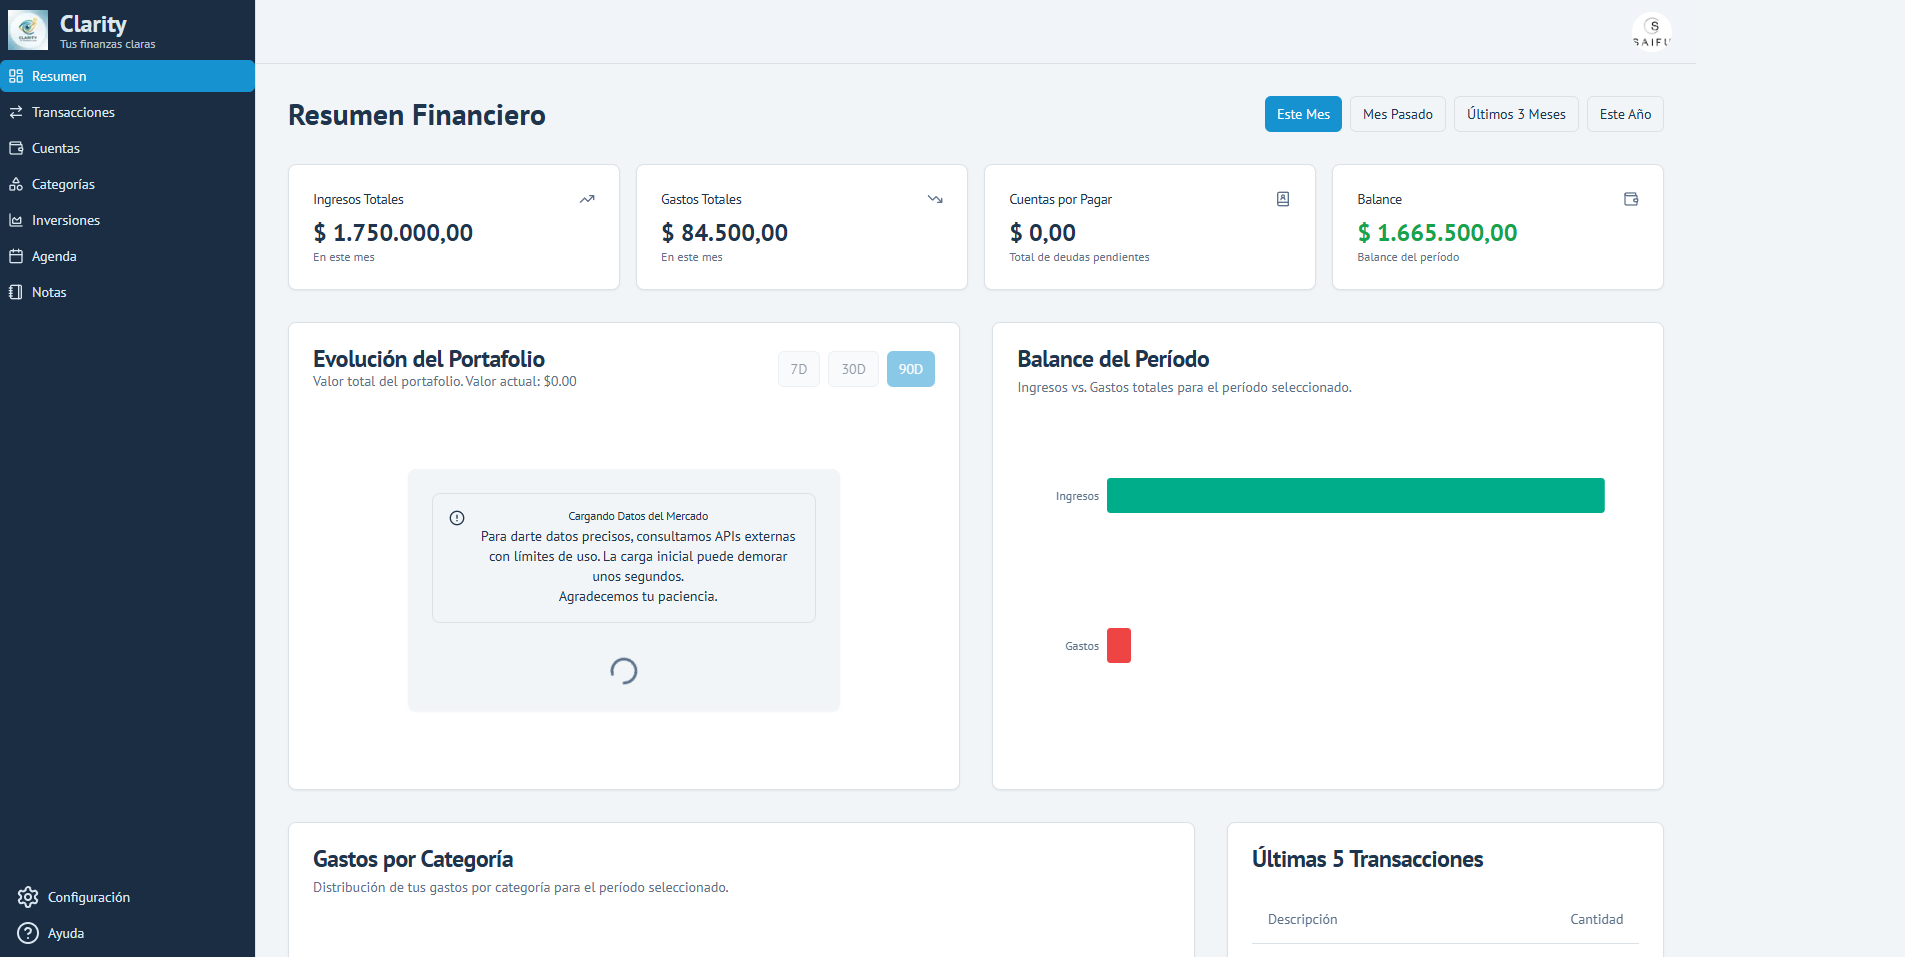
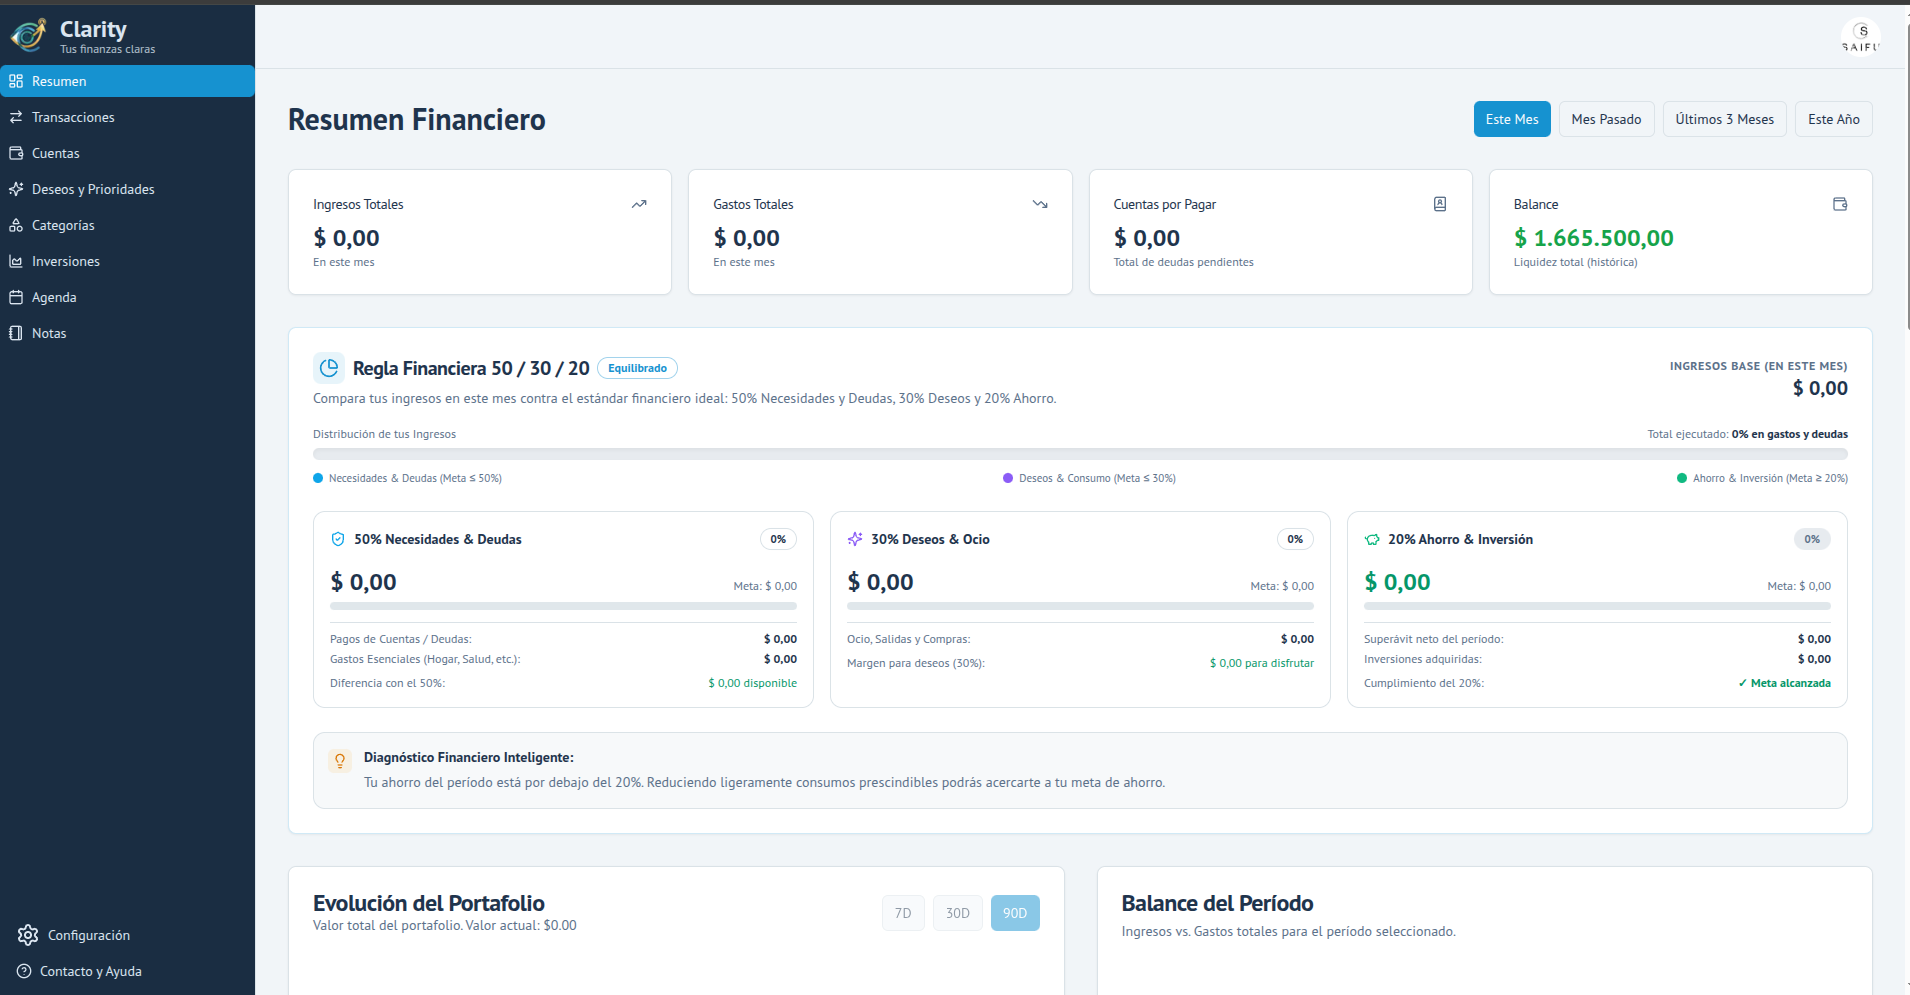
Actualizacion de info de clarity y mejoras

diff --git a/src/lib/data.ts b/src/lib/data.ts
@@ -16,15 +16,49 @@ import {
     Sparkles 
 } from "lucide-react";
 
-export const skills = [
-  { name: "React.js", icon: Layers },
-  { name: "Node.js", icon: Code },
-  { name: "JavaScript", icon: Code },
-  { name: "Express.js", icon: Code },
-  { name: "React Native", icon: Smartphone },
-  { name: "SQL/NoSQL", icon: Database },
-  { name: "Tailwind CSS", icon: PenTool },
+export const skillCategories = [
+  {
+    category: "Desarrollo Web & Tecnologías",
+    description: "Herramientas y lenguajes para construir aplicaciones modernas, SaaS y plataformas escalables.",
+    accentColor: "primary",
+    icon: Code,
+    skills: [
+      { name: "Next.js (App Router)", icon: Layers },
+      { name: "React.js", icon: Layers },
+      { name: "TypeScript", icon: Code },
+      { name: "JavaScript (ES6+)", icon: Code },
+      { name: "Firebase (Firestore & Auth)", icon: Database },
+      { name: "Node.js & Express", icon: Code },
+      { name: "Tailwind CSS", icon: PenTool },
+      { name: "Genkit AI / LLMs", icon: Sparkles },
+      { name: "SQL & NoSQL", icon: Database },
+      { name: "Git & GitHub", icon: Code },
+      { name: "APIs & Mercado Pago", icon: Globe },
+      { name: "PWA (Web Apps Instalables)", icon: Smartphone },
+    ]
+  },
+  {
+    category: "Gestión Administrativa, E-commerce & Soporte",
+    description: "Competencias operativas, comerciales y de atención remota para el día a día del negocio.",
+    accentColor: "accent",
+    icon: ClipboardList,
+    skills: [
+      { name: "Data Entry & Carga de Productos", icon: FileSpreadsheet },
+      { name: "Atención al Cliente (WhatsApp / Redes)", icon: MessageSquare },
+      { name: "Control de Inventario & Stock", icon: ClipboardList },
+      { name: "Arqueo de Caja Chica & Cierres de Turno", icon: Calculator },
+      { name: "Excel & Google Sheets Avanzado", icon: FileSpreadsheet },
+      { name: "Planillas Contables (Libro IVA / AFIP)", icon: Calculator },
+      { name: "Operación de Tiendas Online & E-commerce", icon: ShoppingCart },
+      { name: "Conciliación de Pagos & Transferencias", icon: Calculator },
+      { name: "Gestión de Cuentas Corrientes y Fiados", icon: ClipboardList },
+      { name: "Redacción Comercial & Contenido (TikTok / IG)", icon: Sparkles },
+    ]
+  }
 ];
+
+export const skills = skillCategories[0].skills;
+
 
 export const experience = [
     {
@@ -112,16 +146,6 @@ export const imageUrls = {
 
 export const featuredProjects = [
     {
-        id: "clarity",
-        title: "Clarity - Finanzas Personales",
-        description: "Aplicación integral de finanzas para un seguimiento claro de tus activos, transacciones y deudas, con sugerencias de IA.",
-        tech: ["Next.js", "Firebase", "Genkit AI", "Tailwind CSS"],
-        github: "https://github.com/edumoyano86/Clarity",
-        live: "https://clarity86.netlify.app/",
-        isPrivate: false,
-        imageUrls: [imageUrls.clarity1, imageUrls.clarity2]
-    },
-    {
         id: "kontalo",
         title: "Kontaló - Gestión Comercial & POS Cloud",
         description: "SaaS integral en la nube y PWA para comercios minoristas. Incluye Punto de Venta ágil (hotkeys y código de barras), arqueo de turnos de caja chica, ajustes masivos de precios/stock con redondeo inteligente, reportes de rotación con IA para capital inmovilizado, exportador contable en 1 clic (AFIP / Libro IVA) y catálogo online con pedidos por WhatsApp y Mercado Pago.",
@@ -131,6 +155,17 @@ export const featuredProjects = [
         isPrivate: true,
         repoNotice: "Repositorio privado comercial. Acceso temporal a código disponible para reclutadores bajo solicitud.",
         imageUrls: [imageUrls.kontalo1, imageUrls.kontalo2]
+    },
+    {
+        id: "clarity",
+        title: "Clarity — Tus Finanzas Claras (v2.0)",
+        description: "Plataforma integral de finanzas personales y desendeudamiento sistemático construida con Next.js 15, React 19, Firebase y Genkit AI. Incorpora la regla 50/30/20, alertas preventivas de deudas con historial de abonos y reversión segura, portafolio de inversiones con cotizaciones en tiempo real (CoinGecko & Finnhub APIs), lista de prioridades de consumo y exportación a Excel con UTF-8 BOM.",
+        tech: ["Next.js 15", "React 19", "Firebase", "Genkit AI", "TypeScript", "CoinGecko API", "Finnhub API", "Tailwind CSS"],
+        github: "https://github.com/edumoyano86/Clarity",
+        live: "https://clarity86.netlify.app/",
+        isPrivate: false,
+        imageUrls: [imageUrls.clarity1, imageUrls.clarity2]
     }
 ];
+
 

diff --git a/src/app/projects/page.tsx b/src/app/projects/page.tsx
@@ -58,23 +58,28 @@ export default function ProjectsPage() {
         },
         {
             id: "clarity",
-            title: "Clarity - Finanzas Personales",
-            tagline: "Gestión financiera inteligente y seguimiento de inversiones.",
-            statusBadge: "Proyecto Activo",
-            description: "Clarity es una aplicación web integral de finanzas personales diseñada para dar una visión clara y completa de tu salud financiera. Combina herramientas de seguimiento de gastos e ingresos, gestión de un portafolio de inversiones (acciones y criptomonedas), control de deudas, agenda de citas y un bloc de notas. Incluye un asistente con IA que ofrece sugerencias de ahorro personalizadas.",
+            title: "Clarity — Tus Finanzas Claras (v2.0)",
+            tagline: "Control patrimonial, desendeudamiento sistemático, inversiones multiactivos e IA predictiva.",
+            statusBadge: "v2.0 en Producción",
+            description: "Plataforma integral de gestión financiera personal y desendeudamiento sistemático desarrollada con Next.js 15, React 19 y Firebase Firestore. Diseñada bajo principios de finanzas conductuales, visibilidad total y soberanía de datos, implementa la regla 50/30/20, seguimiento de criptomonedas y acciones en tiempo real con APIs de mercado, historial de abonos con reversión segura y análisis predictivo mediante Genkit AI.",
             highlights: [
-                "Seguimiento patrimonial en tiempo real: cálculo de activos netos, pasivos e historial financiero.",
-                "Portafolio de Inversiones: seguimiento de acciones y criptomonedas con visualizaciones interactivas.",
-                "Asistente con Inteligencia Artificial: sugerencias personalizadas de optimización de presupuesto basadas en Genkit AI.",
-                "Agenda y Bloc de Notas integrados para planificación de compromisos financieros."
+                "Dashboard Inteligente & Regla 50/30/20: KPIs de balance, flujo de fondos y distribución de gastos con barras de progreso tricolor (50% necesidades/deudas, 30% deseos, 20% ahorro/inversión).",
+                "Alertas Preventivas de Deudas: monitoreo automático con badges de urgencia si una cuenta vence en 3 a 5 días o si ya está vencida, priorizando las cuentas más críticas.",
+                "Desendeudamiento Sistemático & Reversión Segura: ordenamiento automático (deudas pendientes al inicio, saldadas al final), historial desplegable de abonos con porcentaje cubierto y botón de anulación que recalcula el saldo pendiente de forma sincronizada.",
+                "Portafolio de Inversiones con Cotizaciones en Vivo: seguimiento de criptomonedas (CoinGecko API) y acciones/CEDEARs (Finnhub API) con alternador instantáneo ARS/USD, registro de operaciones y cálculo de rendimientos.",
+                "Inteligencia Artificial con Genkit AI: flujos predictivos de sugerencias de ahorro personalizadas (savings-suggestions) y detección temprana de riesgo de sobregiro (budget-alerts).",
+                "Lista de Deseos y Consumo Consciente: clasificación por prioridad (Alta, Media, Baja) integrada con el 30% de la regla 50/30/20 para evitar compras impulsivas y calcular ahorro acumulado.",
+                "Soberanía de Datos & Exportación a Excel: descarga en 1 clic de reportes en CSV con cabecera BOM UTF-8 y delimitador argentino (;) para apertura nativa y sin errores de caracteres en Microsoft Excel y Google Sheets.",
+                "Agenda Financiera & Notificador Activo: calendario con react-day-picker v9 y sistema de alertas persistentes (Toast) que dispara avisos de compromisos y vencimientos del día al iniciar sesión."
             ],
-            tech: ["Next.js", "Firebase", "Genkit AI", "TypeScript", "Tailwind CSS"],
+            tech: ["Next.js 15", "React 19", "Firebase (Firestore & Auth)", "Genkit AI", "TypeScript", "CoinGecko API", "Finnhub API", "Tailwind CSS", "Shadcn UI"],
             github: "https://github.com/edumoyano86/Clarity",
             live: "https://clarity86.netlify.app/",
             isPrivate: false,
-            liveLabel: "Ver Demo en Vivo",
+            liveLabel: "Ver Demo en Vivo (clarity86.netlify.app)",
             imageUrls: [imageUrls.clarity1, imageUrls.clarity2]
         },
+
         {
             id: "wip-1",
             title: "Portfolio Personal",

diff --git a/src/components/home/skills-section.tsx b/src/components/home/skills-section.tsx
@@ -1,21 +1,74 @@
 import { Badge } from "@/components/ui/badge";
-import { skills } from "@/lib/data";
+import { Card, CardContent, CardHeader, CardTitle, CardDescription } from "@/components/ui/card";
+import { skillCategories } from "@/lib/data";
 
 export function SkillsSection() {
   return (
     <section id="skills" className="mb-24 md:mb-32 scroll-mt-20">
       <div className="text-center mb-16">
-        <h2 className="text-4xl md:text-5xl font-bold tracking-tight">Mis Herramientas</h2>
-        <p className="mt-4 text-lg text-muted-foreground">Tecnologías con las que construyo soluciones.</p>
+        <h2 className="text-4xl md:text-5xl font-bold tracking-tight">Habilidades & Herramientas</h2>
+        <p className="mt-4 text-lg text-muted-foreground max-w-2xl mx-auto">
+          Capacidades técnicas y operativas con las que aporto valor inmediato a proyectos y equipos de trabajo remoto.
+        </p>
       </div>
-      <div className="flex flex-wrap justify-center gap-4 md:gap-6">
-        {skills.map((skill) => (
-          <Badge key={skill.name} variant="outline" className="px-6 py-3 text-lg border-primary/30 text-primary/80 transition-all hover:scale-105 hover:bg-primary/10 hover:text-primary hover:border-primary/80 cursor-default">
-            <skill.icon className="mr-2 h-5 w-5" />
-            {skill.name}
-          </Badge>
-        ))}
+
+      <div className="grid md:grid-cols-2 gap-8 max-w-6xl mx-auto">
+        {skillCategories.map((group) => {
+          const GroupIcon = group.icon;
+          const isAccent = group.accentColor === "accent";
+
+          return (
+            <Card 
+              key={group.category} 
+              className={`flex flex-col bg-card/50 border-border/50 transition-all duration-300 ${
+                isAccent 
+                  ? "hover:border-accent/50 hover:shadow-accent/10 hover:shadow-lg" 
+                  : "hover:border-primary/50 hover:shadow-primary/10 hover:shadow-lg"
+              }`}
+            >
+              <CardHeader className="pb-4">
+                <div className="flex items-center gap-3 mb-2">
+                  <div className={`p-2.5 rounded-lg border ${
+                    isAccent 
+                      ? "bg-accent/10 border-accent/20 text-accent" 
+                      : "bg-primary/10 border-primary/20 text-primary"
+                  }`}>
+                    <GroupIcon className="h-6 w-6" />
+                  </div>
+                  <div>
+                    <CardTitle className="text-xl">{group.category}</CardTitle>
+                    <CardDescription className="text-xs sm:text-sm mt-0.5">
+                      {group.description}
+                    </CardDescription>
+                  </div>
+                </div>
+              </CardHeader>
+              <CardContent className="pt-2 flex-grow">
+                <div className="flex flex-wrap gap-2.5">
+                  {group.skills.map((skill) => {
+                    const SkillIcon = skill.icon;
+                    return (
+                      <Badge 
+                        key={skill.name} 
+                        variant="outline" 
+                        className={`px-3.5 py-2 text-sm font-medium transition-all hover:scale-105 cursor-default ${
+                          isAccent
+                            ? "border-accent/30 text-accent/90 hover:bg-accent/10 hover:text-accent hover:border-accent/80"
+                            : "border-primary/30 text-primary/90 hover:bg-primary/10 hover:text-primary hover:border-primary/80"
+                        }`}
+                      >
+                        <SkillIcon className="mr-2 h-4 w-4 shrink-0" />
+                        <span>{skill.name}</span>
+                      </Badge>
+                    );
+                  })}
+                </div>
+              </CardContent>
+            </Card>
+          );
+        })}
       </div>
     </section>
   );
 }
+

diff --git a/src/components/home/hero-section.tsx b/src/components/home/hero-section.tsx
@@ -1,7 +1,8 @@
 import { Avatar, AvatarFallback, AvatarImage } from "@/components/ui/avatar";
 import { Button } from "@/components/ui/button";
+import { Badge } from "@/components/ui/badge";
 import Link from "next/link";
-import { ArrowRight } from "lucide-react";
+import { ArrowRight, Code, ClipboardList, Sparkles } from "lucide-react";
 import { imageUrls } from "@/lib/data";
 import { CVDialog } from "@/components/cv-dialog";
 
@@ -9,17 +10,39 @@ export function HeroSection() {
   return (
     <section className="text-center mb-24 md:mb-32">
       <div className="flex flex-col items-center">
-        <Avatar className="w-36 h-36 mb-6 border-4 border-primary/30 shadow-lg shadow-primary/20">
-          <AvatarImage src={imageUrls.perfil} alt="Eduardo Moyano" />
+        <Avatar className="w-36 h-36 mb-6 border-4 border-primary/30 shadow-lg shadow-primary/20 ring-4 ring-background">
+          <AvatarImage src={imageUrls.perfil} alt="Eduardo Moyano" className="object-cover" />
           <AvatarFallback>EM</AvatarFallback>
         </Avatar>
 
-        <h1 className="text-5xl md:text-7xl font-bold tracking-tighter mb-4 bg-clip-text text-transparent bg-gradient-to-r from-primary to-accent">
+        <div className="inline-flex items-center gap-2 px-4 py-1.5 rounded-full bg-primary/10 border border-primary/20 text-xs sm:text-sm font-medium text-primary mb-6 shadow-sm">
+          <Sparkles className="h-3.5 w-3.5 text-primary" />
+          <span>Desarrollo Web Full Stack & Gestión Operativa / Administrativa Remota</span>
+        </div>
+
+        <h1 className="text-5xl md:text-7xl font-bold tracking-tighter mb-4 bg-clip-text text-transparent bg-gradient-to-r from-primary via-primary/90 to-accent">
           Eduardo Moyano
         </h1>
-        <p className="max-w-3xl mx-auto text-lg md:text-xl text-muted-foreground mb-8">
-          Desarrollador Web Freelance y Emprendedor. Combino mi pasión por la informática con una sólida experiencia en ventas, administración y economía. Ofrezco soluciones tecnológicas y servicios administrativos remotos para impulsar y organizar tu negocio.
+
+        <p className="max-w-3xl mx-auto text-lg md:text-xl text-muted-foreground mb-8 leading-relaxed">
+          Combino el desarrollo de software moderno (<span className="text-foreground font-medium">Next.js, TypeScript, Firebase, IA</span>) con sólida experiencia en gestión comercial y operativa: <span className="text-foreground font-medium">atención al cliente, carga de productos (data entry), control de inventarios y finanzas de caja</span>. Listo para sumarme a proyectos y equipos remotos tanto en roles técnicos como operativos.
         </p>
+
+        <div className="flex flex-wrap justify-center gap-2.5 sm:gap-3.5 mb-8">
+          <Badge variant="secondary" className="px-3 py-1 text-xs sm:text-sm flex items-center gap-1.5">
+            <Code className="h-3.5 w-3.5 text-primary" /> Desarrollo Web & SaaS
+          </Badge>
+          <Badge variant="secondary" className="px-3 py-1 text-xs sm:text-sm flex items-center gap-1.5">
+            <ClipboardList className="h-3.5 w-3.5 text-accent" /> Data Entry & Catálogos
+          </Badge>
+          <Badge variant="secondary" className="px-3 py-1 text-xs sm:text-sm flex items-center gap-1.5">
+            💬 Atención al Cliente & WhatsApp
+          </Badge>
+          <Badge variant="secondary" className="px-3 py-1 text-xs sm:text-sm flex items-center gap-1.5">
+            📊 Control de Caja & Stock
+          </Badge>
+        </div>
+
         <div className="flex flex-wrap justify-center gap-4">
           <Button asChild size="lg" className="shadow-lg shadow-primary/20 hover:shadow-primary/40 transition-shadow">
             <Link href="/projects">
@@ -35,4 +58,5 @@ export function HeroSection() {
     </section>
   );
 }
+
 

diff --git a/src/app/cv/page.tsx b/src/app/cv/page.tsx
@@ -204,21 +204,34 @@ function CVContent() {
                   {/* Clarity */}
                   <div className="relative pl-6 border-l-2 border-border/80 space-y-2">
                     <div className="flex flex-wrap items-center justify-between gap-2">
-                      <h4 className="text-xl font-bold">Clarity — Plataforma de Finanzas Personales con IA</h4>
-                      <Badge variant="secondary">2024</Badge>
+                      <h4 className="text-xl font-bold">Clarity — Tus Finanzas Claras (v2.0)</h4>
+                      <Badge variant="secondary">2024 - 2026</Badge>
                     </div>
-                    <p className="text-sm font-medium text-muted-foreground">Desarrollador Full Stack | <a href="https://clarity86.netlify.app" target="_blank" rel="noreferrer" className="text-primary hover:underline">clarity86.netlify.app</a></p>
+                    <p className="text-sm font-medium text-muted-foreground">Desarrollador Full Stack | Web Oficial: <a href="https://clarity86.netlify.app" target="_blank" rel="noreferrer" className="text-primary hover:underline">clarity86.netlify.app</a> | GitHub: <a href="https://github.com/edumoyano86/Clarity" target="_blank" rel="noreferrer" className="text-primary hover:underline">github.com/edumoyano86/Clarity</a></p>
                     <ul className="text-sm text-foreground/80 space-y-1.5 pt-2">
                       <li className="flex items-start gap-2">
                         <CheckCircle2 className="h-4 w-4 text-primary shrink-0 mt-0.5" />
-                        <span>Desarrollo de plataforma para control patrimonial, registro de ingresos/gastos, seguimiento de inversiones (cripto/acciones) y gestión de deudas.</span>
+                        <span>Desarrolló plataforma integral con Next.js 15, React 19 y Firebase Firestore para salud financiera, desendeudamiento y portafolio de inversión.</span>
                       </li>
                       <li className="flex items-start gap-2">
                         <CheckCircle2 className="h-4 w-4 text-primary shrink-0 mt-0.5" />
-                        <span>Integración de Genkit AI para recomendaciones de ahorro y hábitos financieros personalizados.</span>
+                        <span>Implementó Dashboard con la Regla Financiera 50/30/20 (barras de progreso tricolor) y alertas automáticas de vencimiento de deudas urgentes.</span>
+                      </li>
+                      <li className="flex items-start gap-2">
+                        <CheckCircle2 className="h-4 w-4 text-primary shrink-0 mt-0.5" />
+                        <span>Construyó sistema de cuentas por pagar con historial desplegable de abonos y función de reversión segura sincronizada con el saldo restante.</span>
+                      </li>
+                      <li className="flex items-start gap-2">
+                        <CheckCircle2 className="h-4 w-4 text-primary shrink-0 mt-0.5" />
+                        <span>Integró APIs en tiempo real para cotizaciones de activos: CoinGecko API (criptomonedas) y Finnhub API (acciones/CEDEARs) con alternador ARS/USD.</span>
+                      </li>
+                      <li className="flex items-start gap-2">
+                        <CheckCircle2 className="h-4 w-4 text-primary shrink-0 mt-0.5" />
+                        <span>Desarrolló flujos predictivos con Genkit AI (savings-suggestions y budget-alerts) y exportador a Excel (.CSV con cabecera BOM UTF-8).</span>
                       </li>
                     </ul>
                   </div>
+
 
                   {/* Freelance */}
                   <div className="relative pl-6 border-l-2 border-border/80 space-y-2">
